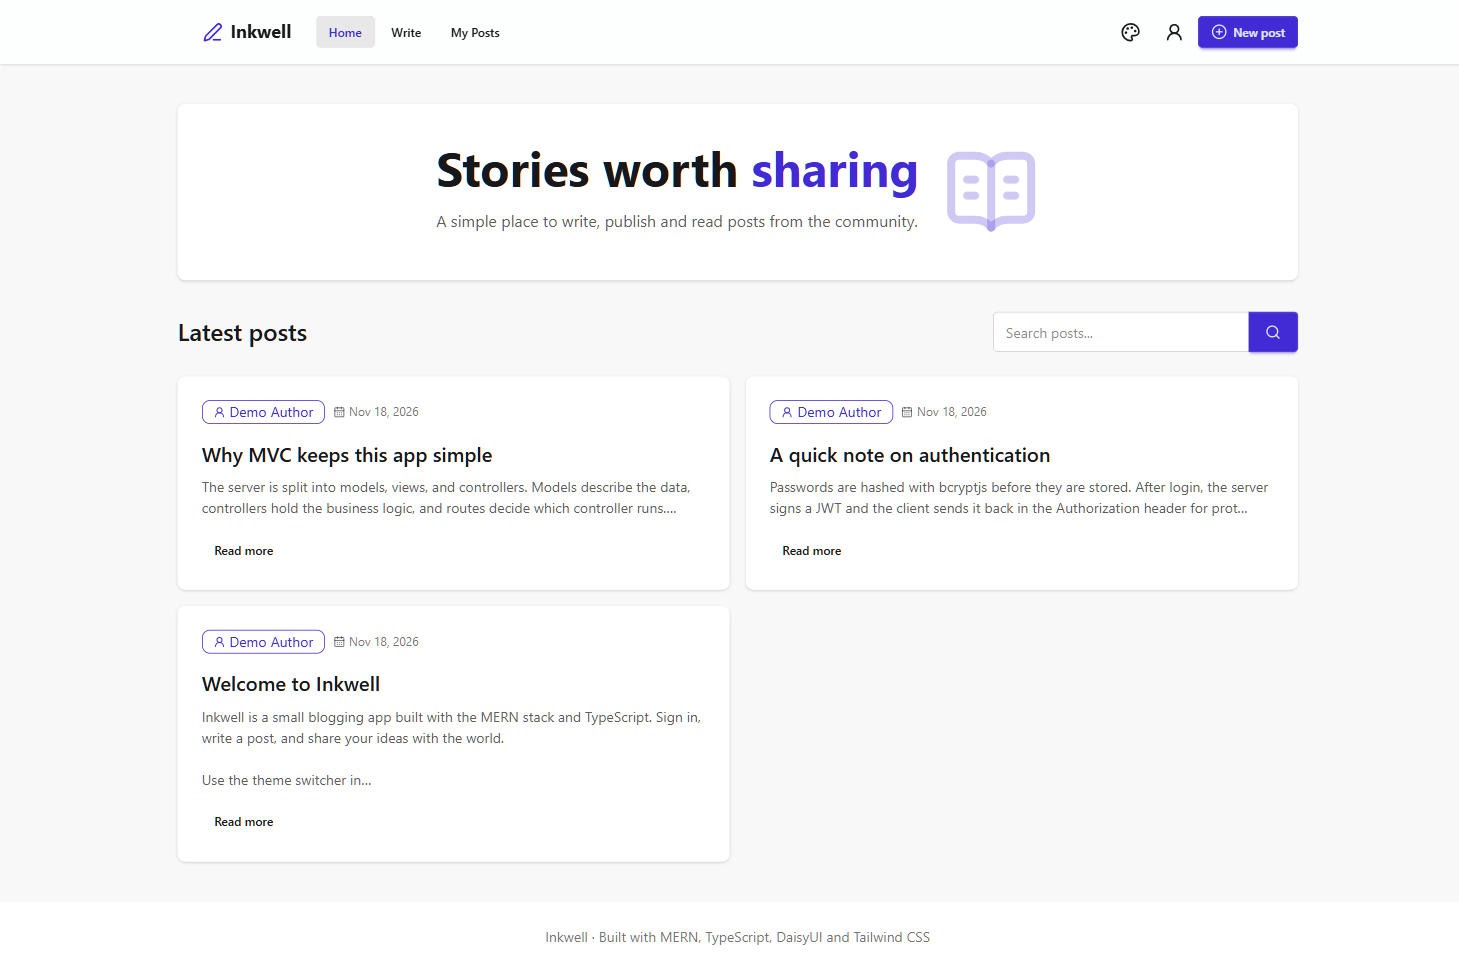
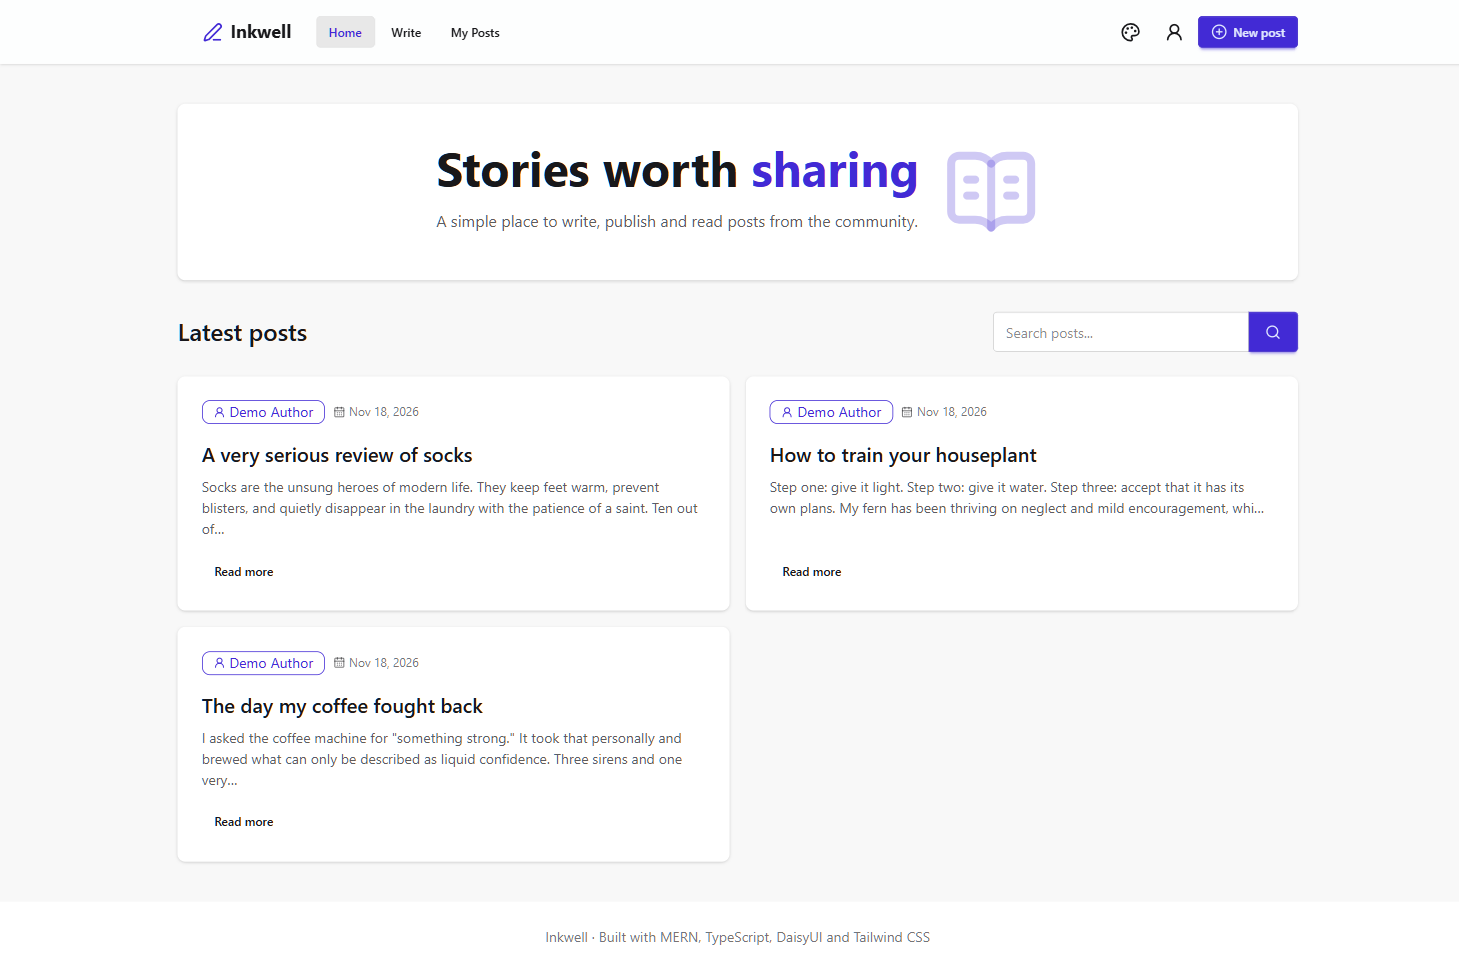
Update demo posts with new titles and content

diff --git a/server/src/seed.ts b/server/src/seed.ts
@@ -14,19 +14,19 @@ const DEMO = {
 
 const posts = [
   {
-    title: 'Welcome to Inkwell',
+    title: 'The day my coffee fought back',
     content:
-      'Inkwell is a small blogging app built with the MERN stack and TypeScript. Sign in, write a post, and share your ideas with the world.\n\nUse the theme switcher in the navbar to try light, dark, cupcake, or forest mode.',
+      'I asked the coffee machine for "something strong." It took that personally and brewed what can only be described as liquid confidence. Three sirens and one very alert hamster later, I decided to make peace and drink it anyway.',
   },
   {
-    title: 'Why MVC keeps this app simple',
+    title: 'A very serious review of socks',
     content:
-      'The server is split into models, views, and controllers. Models describe the data, controllers hold the business logic, and routes decide which controller runs. The React client is the view layer and talks to the API with Axios.',
+      'Socks are the unsung heroes of modern life. They keep feet warm, prevent blisters, and quietly disappear in the laundry with the patience of a saint. Ten out of ten would wear again, assuming they ever return.',
   },
   {
-    title: 'A quick note on authentication',
+    title: 'How to train your houseplant',
     content:
-      'Passwords are hashed with bcryptjs before they are stored. After login, the server signs a JWT and the client sends it back in the Authorization header for protected actions like creating, editing, and deleting posts.',
+      'Step one: give it light. Step two: give it water. Step three: accept that it has its own plans. My fern has been thriving on neglect and mild encouragement, which honestly describes my entire approach to adulthood.',
   },
 ];
 
